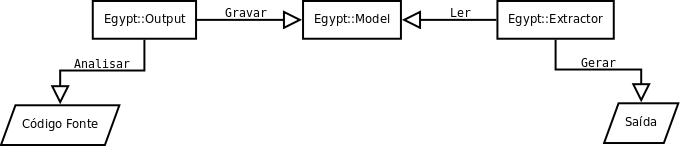
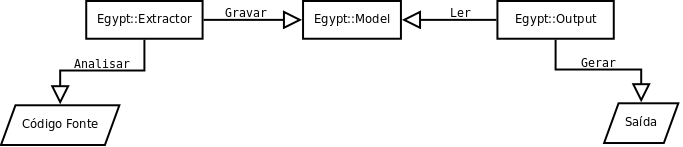
revisando capitulo 3 - Avaliacao

Changed region(s): [[0.123, 0.0, 0.3075, 0.2721], [0.7379, 0.0816, 0.8917, 0.1905]]

diff --git a/monografia-content.tex b/monografia-content.tex
@@ -163,11 +163,11 @@ figura~\ref{egypt-diagram-extractor}:
 \item[Egypt::Extrator::Doxyparse] Novo extrator baseado na saída do doxyparse
 \end{description}
 
-O egypt já possui a infraestrutura
-para gerar saída no formato do Graphviz, a classe Egypt::Output::DOT é a
-responsável por isto, ela lê os dados armazenados em Egypt::Model e gera a
-saída corretamente. O Egypt::Model é alimentado pelo extrator, que neste caso será
-o Egypt::Extrator::Doxyparse.
+O egypt já possui a infraestrutura para gerar saída no formato do Graphviz, a
+classe Egypt::Output::DOT é a responsável por isto, ela lê os dados armazenados
+em Egypt::Model e gera a saída corretamente. O Egypt::Model é alimentado pelo
+extrator, que neste caso será o Egypt::Extrator::Doxyparse. Na
+figura~\ref{egypt-fluxogram} está o fluxograma de funcionamento do egypt.
 
 \begin{figure}[h]
 \center
@@ -176,10 +176,12 @@ o Egypt::Extrator::Doxyparse.
 \label{egypt-fluxogram}
 \end{figure}
 
-O egypt agora pode extrair informações usando 2 métodos diferentes. Um usando o
+Após a refatoração demonstrada na figura~\ref{egypt-diagram-extractor} o egypt
+pode extrair informações usando 2 métodos diferentes, usando o
 Egypt::Extractor::GCC que faz a extração baseada nos arquivos intermediários do
-GCC e outro usando o Egypt::Extractor::Doxyparse que faz a análise utilizando o
-doxyparse. Exemplo de execução do egypt usando cada um dos extratores:
+GCC ou usando o Egypt::Extractor::Doxyparse que faz a análise utilizando o
+doxyparse. Segue abaixo um exemplo de execução do egypt usando cada um dos
+extratores:
 
 \begin{Verbatim}[frame=single,fontsize=\relsize{-2},fontfamily=courier]
  $ egypt --extractor Doxyparse <arquivos>
@@ -188,8 +190,8 @@ doxyparse. Exemplo de execução do egypt usando cada um dos extratores:
 
 \chapter{Avaliação}
 
-Com o extrator pronto é necessário avaliar se as informações extraidas estao
-corretas e se há diferenças em relação as informações extraidas pelo extrator
+Com o extrator pronto é necessário avaliar se as informações extraídas estão
+corretas e se há diferenças em relação as informações extraídas pelo extrator
 original do egypt baseado em GCC.
 
 \section{Procedimento}
@@ -238,12 +240,12 @@ informaçõe extraídas pelo GCC e o Doxyparse, há uma inversão entre os módu
 thumbnailer\_viewer e picture\_viewer. Enquanto o Doxyparse diz que o
 picture\_viewer chama o thumbnailer\_viewer no GCC temos o contrário, após uma
 verificação ao código fonte do ristretto 0.0.1 nota-se que nenhum dos 2 módulos
-se referenciam, então tanto o extrator baseado no GCC quanto o
-extrator baseado no doxyparse estão dando informações incorretas.
+se referenciam, então tanto o extrator GCC quanto o extrator Doxyparse estão
+dando informações incorretas.
 
-Como o objetivo deste trabalho é o extrator baseado no doxyparse faz-se
-necessário procurar uma solução para este problema. O problema pode estar no
-doxyparse ou no extrator Egypt::Extractor::Doxyparse.
+Como o objetivo deste trabalho é o extrator Doxyparse faz-se necessário
+procurar uma solução para este problema. O problema pode estar no doxyparse ou
+no extrator Egypt::Extractor::Doxyparse.
 
 Ao investigar o problema notou-se que o problema está no extrator não no
 doxyparse em si. O egypt armazena as informações usando como chave, ou seja,
